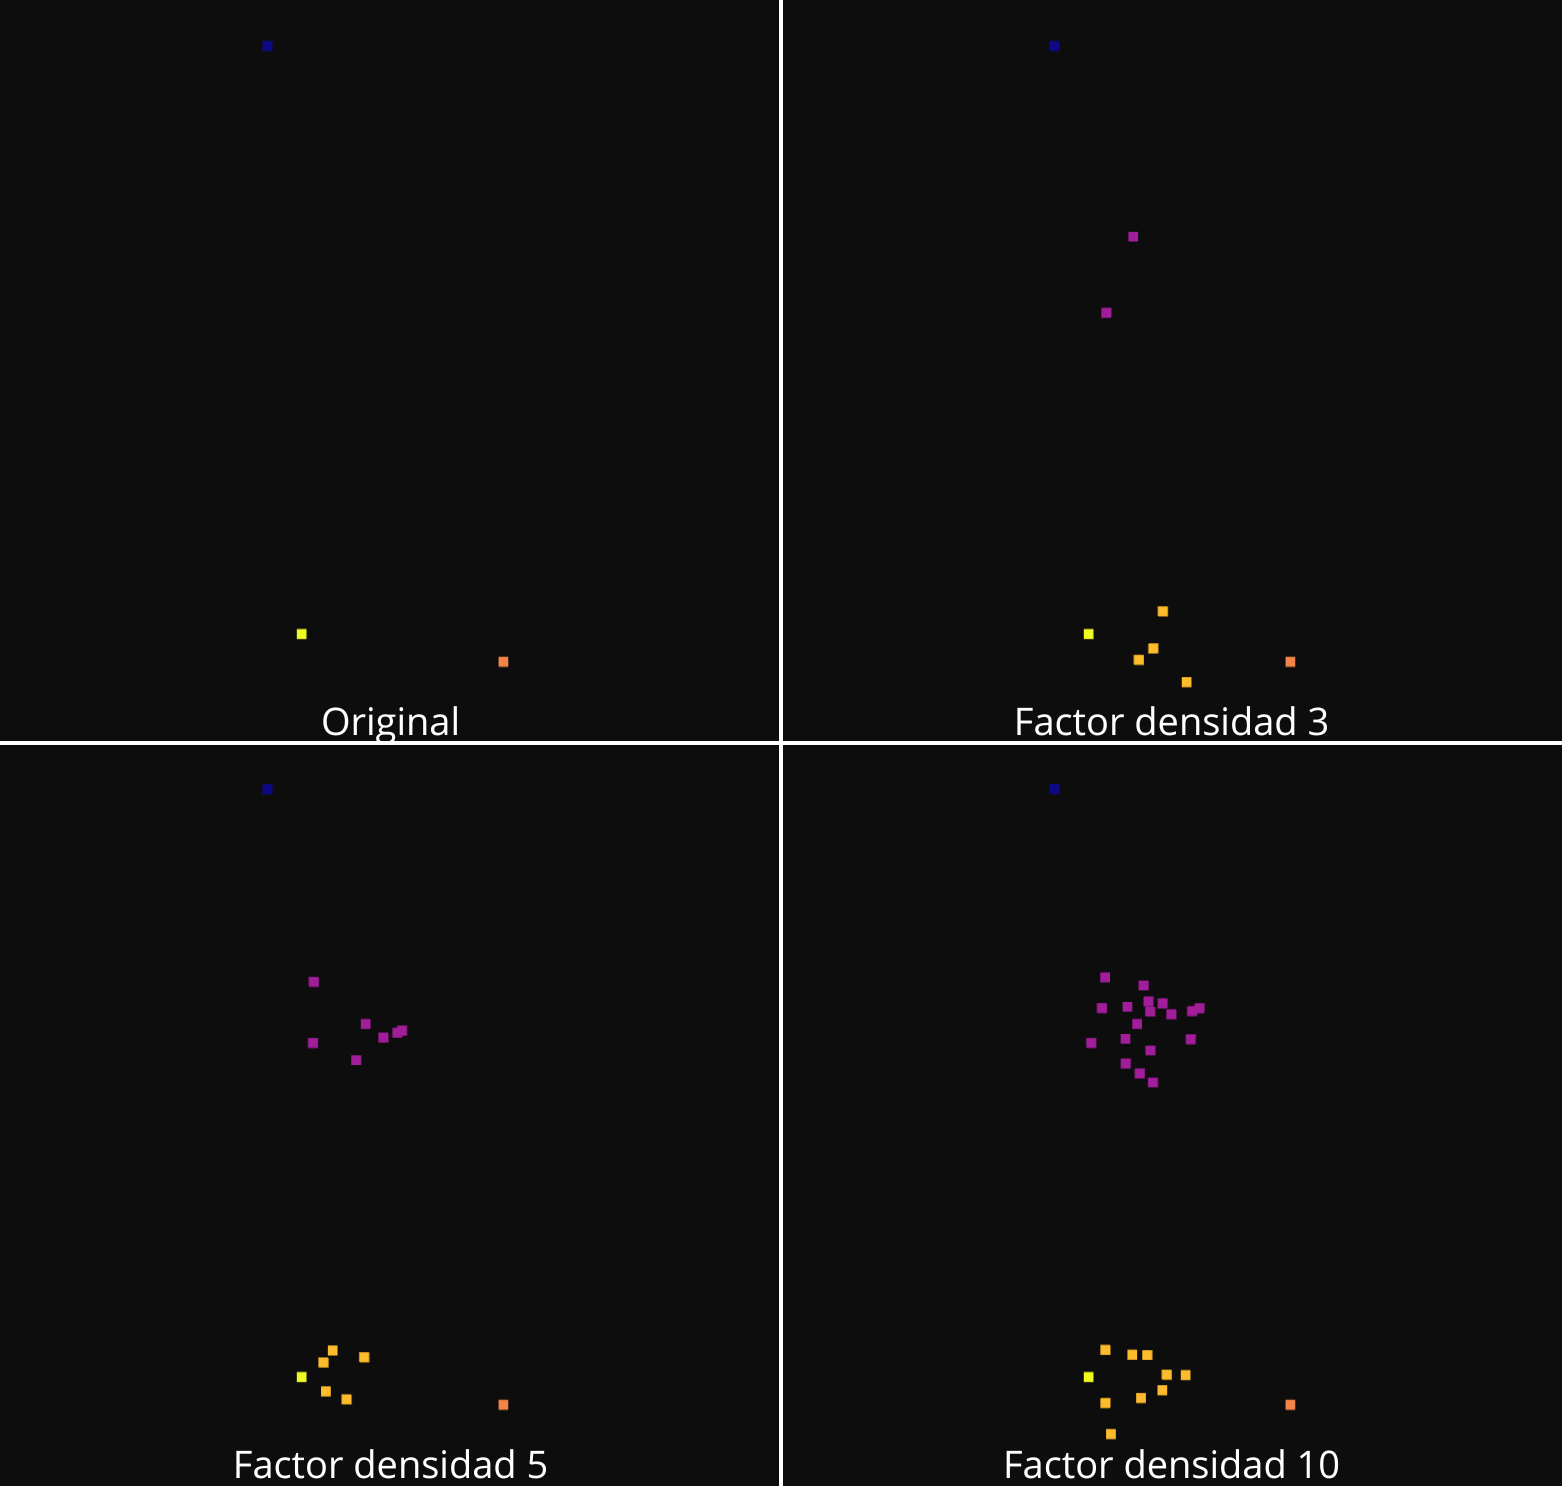
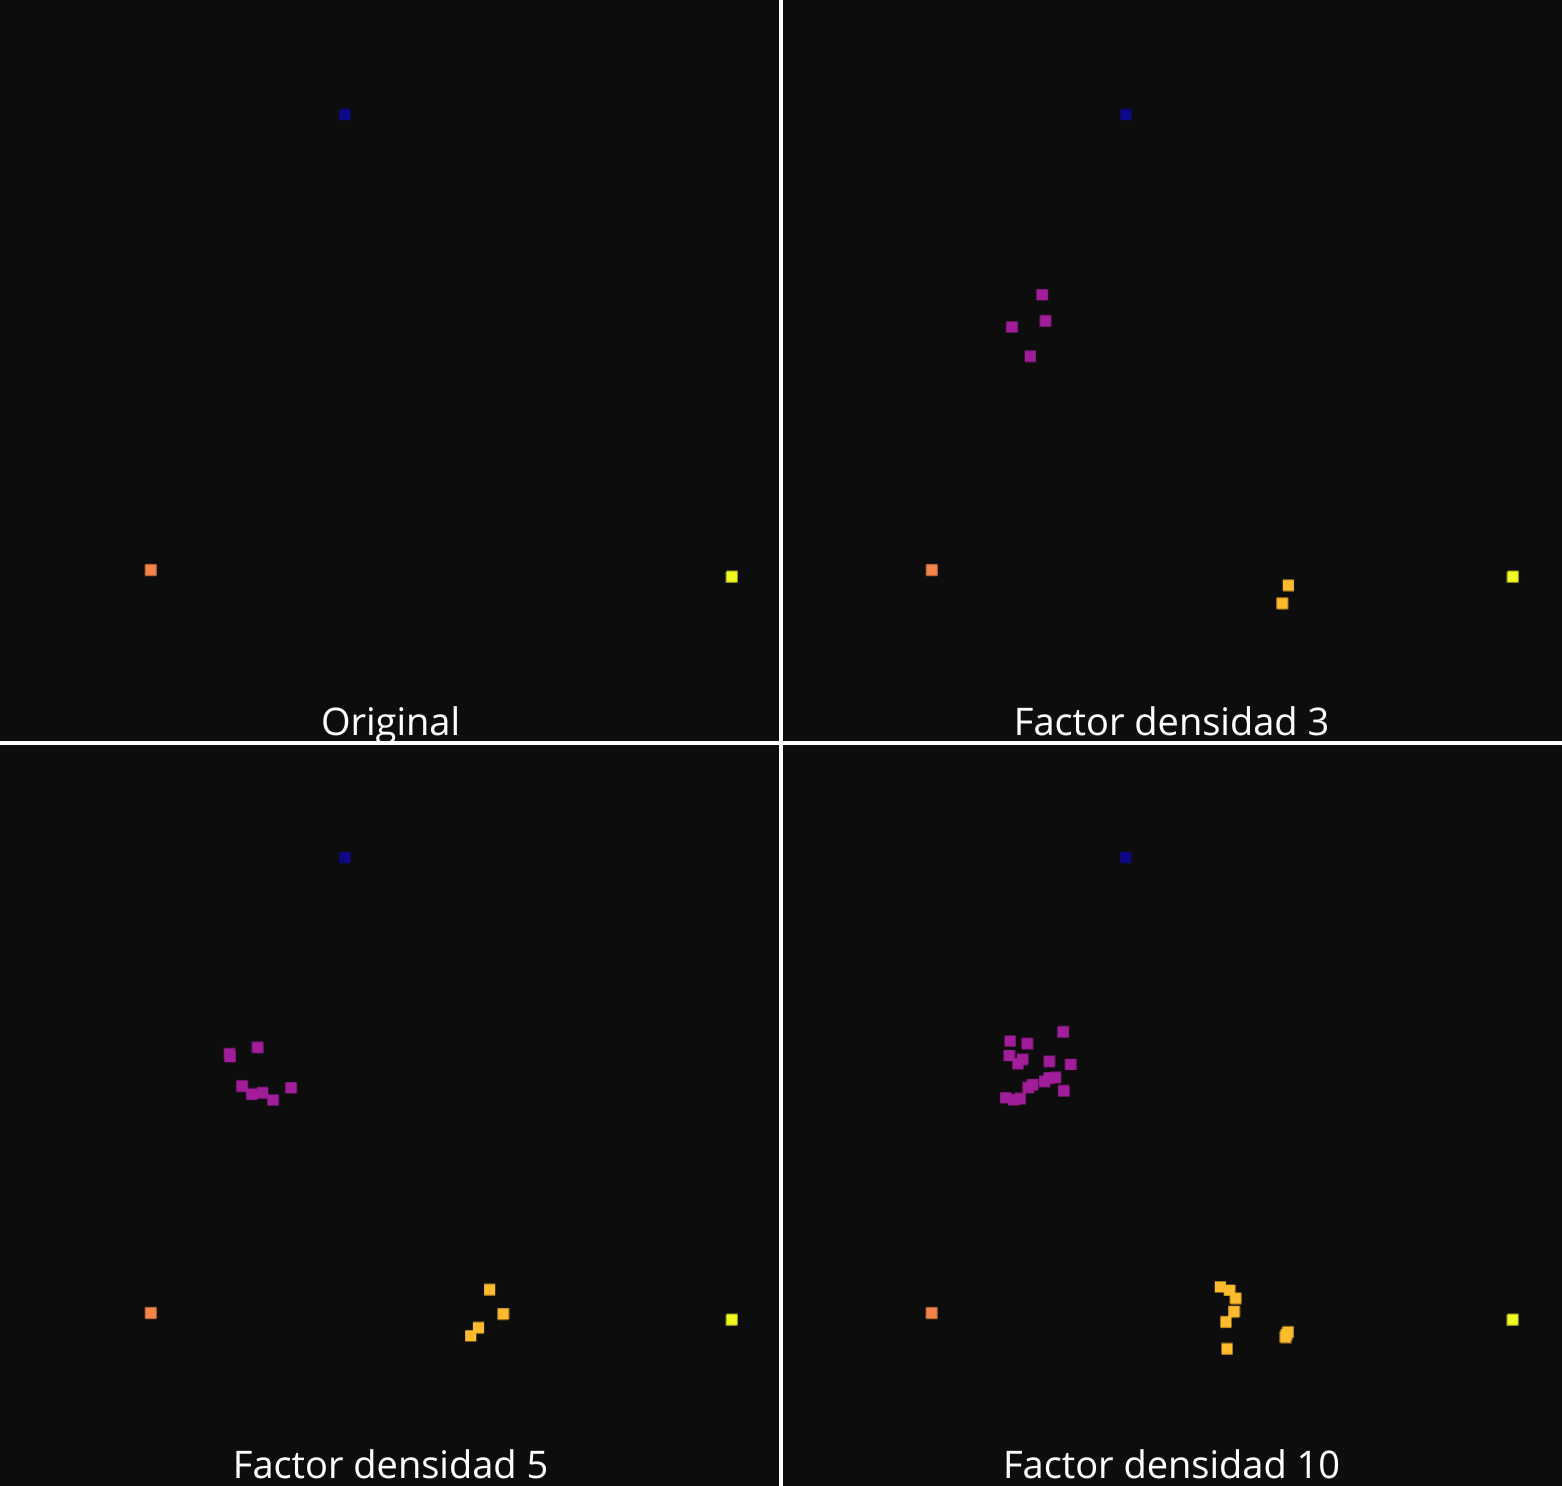
autoInterpolacion, 1NN, TIN

diff --git a/codigo/densificacion/TIN/TIN.py b/codigo/densificacion/TIN/TIN.py
@@ -4,7 +4,8 @@ from plyfile import PlyData, PlyElement
 import open3d as o3d
 import sys
 from typing import Tuple
-from sklearn.neighbors import NearestNeighbors
+from scipy.spatial import Delaunay
+from scipy.interpolate import LinearNDInterpolator
 import tkinter as tk
 from tkinter import filedialog, simpledialog
 
@@ -46,97 +47,49 @@ def read_ply_file(file_path):
     remissions = plydata['vertex'].data['intensity']
     return points, remissions
 
-# ------ Densificación -------
+# ------ Densificación con Triangulación de Delaunay -------
 
 def densify_point_cloud(points: np.ndarray, remissions: np.ndarray, 
                                        density_factor: float = 5.0) -> Tuple[np.ndarray, np.ndarray, np.ndarray, np.ndarray]:
     """
-    Densifica la nube de puntos utilizando interpolación basada en vecinos más cercanos.
+    Densifica la nube de puntos utilizando triangulación de Delaunay e interpolación lineal.
     """
-    # Usar NearestNeighbors para encontrar los vecinos más cercanos
-    nn = NearestNeighbors(n_neighbors=1)
-    nn.fit(points)
+    # Crear la triangulación de Delaunay
+    tri = Delaunay(points[:, :2])  # Solo usamos las coordenadas (x, y) para la triangulación
+    
+    # Crear un interpolador lineal basado en la triangulación
+    z_interpolator = LinearNDInterpolator(tri, points[:,2])
+    remission_interpolator = LinearNDInterpolator(tri, remissions)
     
     # Establecer el número de nuevos puntos a crear
-    num_new_points = int((len(points) * (density_factor-1)))
+    target_point = int(len(points) * density_factor)
     
-    # Cuenta de las veces que se usa cada punto
-    point_usage_count = {}
-
-    # Almacenar los puntos y las intensidades generadas
+    # Generar nuevos puntos dentro del área de la triangulación
+    x_min, x_max = points[:, 0].min(), points[:, 0].max()
+    y_min, y_max = points[:, 1].min(), points[:, 1].max()
+    
     new_points = []
     new_remissions = []
     
-    for _ in range(num_new_points):
-        # Elegir un punto aleatorio de la nube de puntos original
-        index = np.random.randint(0, len(points))
-        point = points[index]
+    while len(new_points) + len(points) < target_point:
+        # Generar un punto aleatorio dentro del rango (x,y)
+        x = np.random.uniform(x_min, x_max)
+        y = np.random.uniform(y_min, y_max)
 
-        # Elegir un punto que haya sido usado menos veces
-        if not point_usage_count:  # Si el diccionario está vacío
-            index = np.random.randint(0, len(points))
+        # Verificar si el punto está dentro de la triangulación
+        if tri.find_simplex(np.array([[x, y]])) >= 0:
+            # Interpolar el valor de z y la intensidad
+            z_interp = z_interpolator(x, y)
+            remission_interp = remission_interpolator(x, y)
 
-        else:
-            # Encontrar el mínimo número de veces que se ha usado cualquier punto
-            min_usage = min(point_usage_count.values())
-            # Obtener todos los índices que tienen el mínimo uso
-            least_used_indices = [idx for idx, count in point_usage_count.items() if count == min_usage]
-            # Si hay puntos que aún no se han usado, incluirlos
-            unused_indices = [i for i in range(len(points)) if i not in point_usage_count]
-            candidate_indices = least_used_indices + unused_indices
-            # Seleccionar aleatoriamente entre los candidatos
-            index = np.random.choice(candidate_indices)
-
-        point = points[index]
-
-        # Incrementar contador para el punto seleccionado
-        if index in point_usage_count:
-            point_usage_count[index] += 1
-        else:
-            point_usage_count[index] = 1
-
-        
-        # Obtener los 2 vecinos más cercanos (el primero es él mismo)
-        distances,indices = nn.kneighbors([point])
-
-        # Seleccionar el segundo vecino más cercano para interpolar
-        neighbor_point = points[indices[0][0]]
-
-        print(f"\nPunto original seleccionado [{index}]: {point}")
-        print(f"Punto vecino encontrado [{indices[0][0]}]: {neighbor_point}")
-        print(f"¿Son el mismo punto?: {np.array_equal(point, neighbor_point)}")
-        
-        # Interpolar entre el punto original y el vecino seleccionado
-        displacement = np.random.uniform(-0.1, 0.1, size=(3,))  # Pequeño desplazamiento aleatorio
-        interpolated_point = (point + neighbor_point) / 2 + displacement
-        
-        # Las intensidades de los nuevos puntos serán las medias de las intensidades del punto original y el vecino
-        interpolated_remission = (remissions[index] + remissions[indices[0][0]]) / 2
-        
-        # Agregar el nuevo punto y su intensidad
-        new_points.append(interpolated_point)
-        new_remissions.append(interpolated_remission)
-
+            if not np.isnan(z_interp):
+                new_points.append([x,y,z_interp])
+                new_remissions.append(remission_interp)
 
     
-    # Mostrar el uso de los puntos
-    print("\nInformación de puntos usados como referencia:")
-    print("Formato: [Punto ID] (x, y, z) - usado N veces - Tipo")
-    for point_idx, count in point_usage_count.items():
-        coord = points[point_idx]
-        print(f"[{point_idx}] ({coord[0]:.3f}, {coord[1]:.3f}, {coord[2]:.3f}) - usado {count} veces - ORIGINAL")
-
-    # También podemos mostrar los nuevos puntos generados
-    print("\nPuntos nuevos generados:")
-    for i, new_point in enumerate(new_points):
-        print(f"[NEW_{i}] ({new_point[0]:.3f}, {new_point[1]:.3f}, {new_point[2]:.3f}) - INTERPOLADO")
-
-    # Convertir las listas a arrays
-    new_points = np.array(new_points)
-    new_remissions = np.array(new_remissions)
-
     combined_points = np.vstack([points, new_points])
     combined_remissions = np.concatenate([remissions, new_remissions])
+
     
     # Retornar los puntos originales junto con los nuevos puntos
     return combined_points, combined_remissions
@@ -189,6 +142,7 @@ def save_point_cloud(points: np.ndarray, remissions: np.ndarray, output_path: st
     else:
         print(f"Formato '{input_extension}' no soportado. No se guardó el archivo.")
 
+# ------ Procesamiento por lotes -------
 
 def batch_densification_with_viz(input_directory: str, output_directory: str, 
                                   density_factor: float = 5.0):
@@ -233,7 +187,7 @@ def batch_densification_with_viz(input_directory: str, output_directory: str,
         except Exception as e:
             print(f"Error procesando {file}: {e}")
 
-            
+# ------ Interfaz de usuario -------
 
 def main():
     root = tk.Tk()

diff --git a/codigo/densificacion/1NN/1NN.py b/codigo/densificacion/1NN/1NN.py
@@ -58,7 +58,7 @@ def densify_point_cloud(points: np.ndarray, remissions: np.ndarray,
     nn.fit(points)
     
     # Establecer el número de nuevos puntos a crear
-    num_new_points = int((len(points) * density_factor)-len(points))
+    num_new_points = int((len(points) * (density_factor-1)))
     
     # Cuenta de las veces que se usa cada punto
     point_usage_count = {}
@@ -72,6 +72,22 @@ def densify_point_cloud(points: np.ndarray, remissions: np.ndarray,
         index = np.random.randint(0, len(points))
         point = points[index]
 
+        # Elegir un punto que haya sido usado menos veces
+        if not point_usage_count:  # Si el diccionario está vacío
+            index = np.random.randint(0, len(points))
+
+        else:
+            # Encontrar el mínimo número de veces que se ha usado cualquier punto
+            min_usage = min(point_usage_count.values())
+            # Obtener todos los índices que tienen el mínimo uso
+            least_used_indices = [idx for idx, count in point_usage_count.items() if count == min_usage]
+            # Si hay puntos que aún no se han usado, incluirlos
+            unused_indices = [i for i in range(len(points)) if i not in point_usage_count]
+            candidate_indices = least_used_indices + unused_indices
+            # Seleccionar aleatoriamente entre los candidatos
+            index = np.random.choice(candidate_indices)
+
+        point = points[index]
 
         # Incrementar contador para el punto seleccionado
         if index in point_usage_count:
@@ -100,9 +116,7 @@ def densify_point_cloud(points: np.ndarray, remissions: np.ndarray,
         # Agregar el nuevo punto y su intensidad
         new_points.append(interpolated_point)
         new_remissions.append(interpolated_remission)
-
-
-    
+ 
     # Mostrar el uso de los puntos
     print("\nInformación de puntos usados como referencia:")
     print("Formato: [Punto ID] (x, y, z) - usado N veces - Tipo")
@@ -118,9 +132,12 @@ def densify_point_cloud(points: np.ndarray, remissions: np.ndarray,
     # Convertir las listas a arrays
     new_points = np.array(new_points)
     new_remissions = np.array(new_remissions)
+
+    combined_points = np.vstack([points, new_points])
+    combined_remissions = np.concatenate([remissions, new_remissions])    
     
     # Retornar los puntos originales junto con los nuevos puntos
-    return points, remissions, new_points, new_remissions
+    return combined_points, combined_remissions
 
 # ------ Guardado de archivos-------
 
@@ -199,16 +216,16 @@ def batch_densification_with_viz(input_directory: str, output_directory: str,
             print(f"Número de puntos original: {len(points)}")
             
             # Densificar la nube de puntos
-            points, remissions, noise_points, noise_remissions = densify_point_cloud(
+            points, remissions = densify_point_cloud(
                 points, remissions, density_factor
             )
             
-            print(f"Número de puntos densificado: {len(points) + len(noise_points)}")
+            print(f"Número de puntos densificado: {len(points)}")
             
             # Guardar los puntos densificados en el mismo formato
             save_point_cloud(
-                np.vstack([points, noise_points]), 
-                np.concatenate([remissions, noise_remissions]), 
+                np.vstack([points]), 
+                np.concatenate([remissions]), 
                 output_path,
                 input_extension
             )
